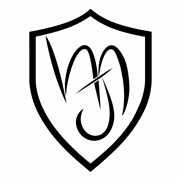
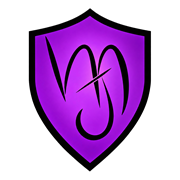
Použít fialovou ikonu se štítem a průhledným okolím

diff --git a/index.html b/index.html
@@ -51,7 +51,7 @@ main{width:100%;flex:1;display:flex;flex-direction:column}
  <div class="card"><div class="row between"><h2>Poslední záznamy</h2><button class="small secondary" onclick="showPage('records')">Všechny</button></div><h3>Náslechové záznamy</h3><div id="recentObservations"></div><h3 style="margin-top:16px">Kontrolní činnost</h3><div id="recentControls"></div></div>
  <button style="width:100%;background:#ffffff;color:#171322;border:1px solid #ffffff" onclick="openRecord(undefined,true)">＋ Přidat náslechový záznam</button>
  <button style="width:100%;margin-top:10px;background:#9ca3af;color:#171322;border:1px solid #9ca3af" onclick="openControlActivity()">＋ Kontrolní činnost</button>
- <footer class="last-update">Poslední aktualizace <time datetime="2026-11-12T20:42:40.000Z">12. 11. 2026 21:42</time></footer>
+ <footer class="last-update">Poslední aktualizace <time datetime="2026-11-14T18:58:01.000Z">14. 11. 2026 19:58</time></footer>
 </section>
 <section id="partners" class="page hidden">
  <div class="row between"><h2>Učitelé</h2><button onclick="openPartner()">＋ Přidat</button></div>

diff --git a/sw.js b/sw.js
@@ -1,5 +1,5 @@
 const CACHE_PREFIX='teacher-statistik-';
-const CACHE=CACHE_PREFIX+'v44';
+const CACHE=CACHE_PREFIX+'v45';
 const ASSETS=['./','./index.html','./manifest.webmanifest','./icon-192.png','./icon-512.png','./icon-180.png'];
 self.addEventListener('install',event=>{event.waitUntil(caches.open(CACHE).then(cache=>cache.addAll(ASSETS)).then(()=>self.skipWaiting()))});
 self.addEventListener('activate',event=>{event.waitUntil(caches.keys().then(keys=>Promise.all(keys.filter(key=>key.startsWith(CACHE_PREFIX)&&key!==CACHE).map(key=>caches.delete(key)))).then(()=>self.clients.claim()))});

diff --git a/README.md b/README.md
@@ -4,5 +4,5 @@ Aplikace vychází z verze Partner Statistik 2.5. Pro nasazení na GitHub Pages 
 
 Teacher_statistik má vlastní úložiště v prohlížeči. Náslechové záznamy i kontrolní činnost se ukládají v tomto zařízení; export/import v Nastavení přenáší učitele, kritéria a všechny záznamy. Zálohu uchovávejte v soukromí.
 
-Černé logo na bílém pozadí je v záhlaví aplikace a v instalačních ikonách.
+Fialové logo ve tvaru štítu s průhledným okolím je v záhlaví aplikace a v instalačních ikonách.
 
